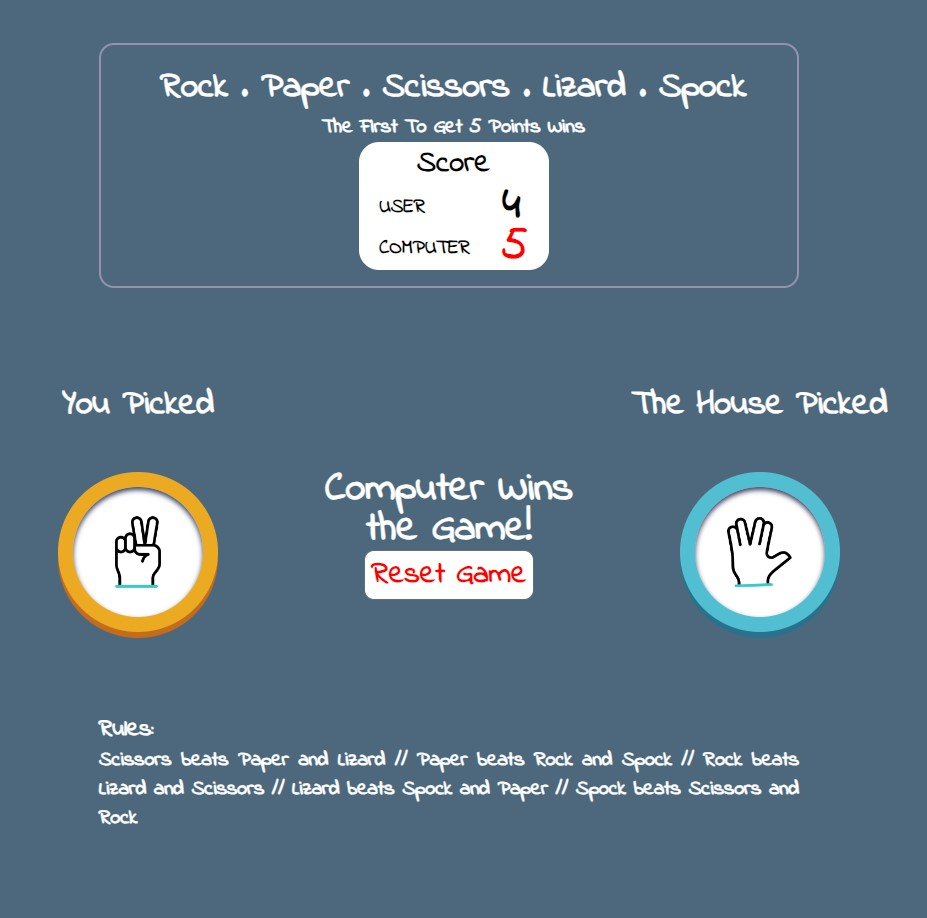
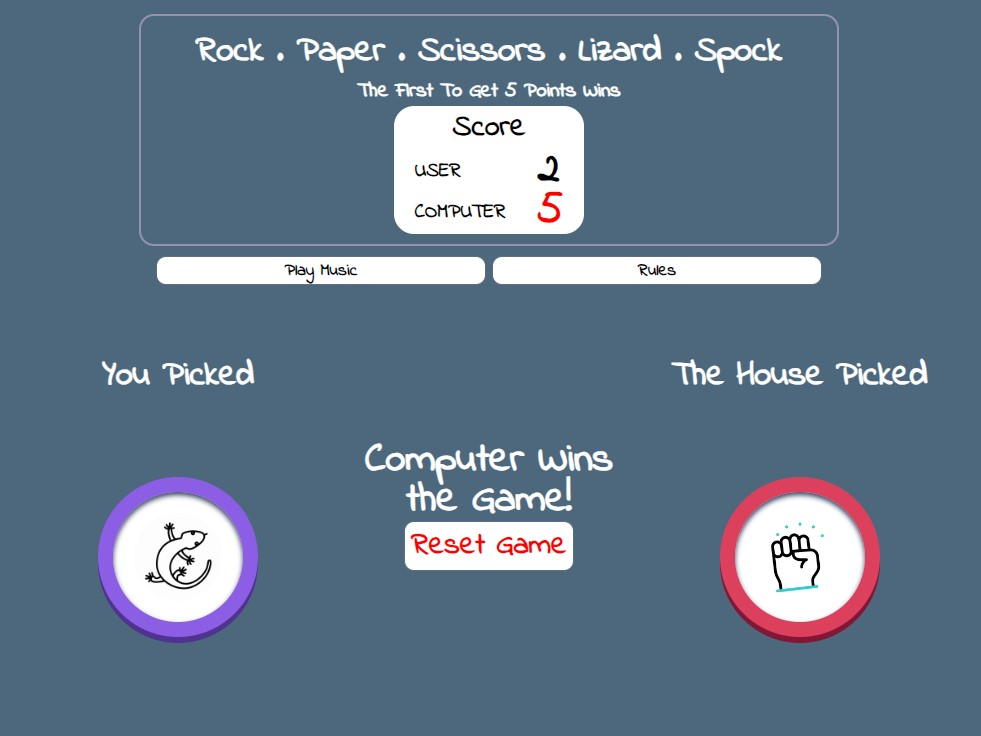
Adjusted ReadMe adding new images of the game. Added footer again.

diff --git a/assets/css/styles.css b/assets/css/styles.css
@@ -104,16 +104,17 @@ td {
     left: 0;
     right: 0;
     bottom: 0;
-    background-color: rgba(0, 0, 0, 0.7); /* Semi-transparent background */
+    background-color: rgba(0, 0, 0, 0.7);
+    /* Semi-transparent background */
     z-index: 9999;
     justify-content: center;
     align-items: center;
 }
-  
+
 #rules-image {
     border-radius: 0;
     max-width: 100%;
-    
+
 }
 
 .modal-content {
@@ -129,7 +130,7 @@ td {
     left: 50%;
     transform: translate(-50%, -50%);
 }
-  
+
 .close-button {
     color: #df7b7b;
     float: right;
@@ -152,7 +153,8 @@ td {
     line-height: 1;
 }
 
-#button-music, #rules {
+#button-music,
+#rules {
     border: 1px solid hsl(217, 16%, 45%);
     width: 330px;
     border-radius: 10px;
@@ -165,9 +167,10 @@ td {
     font-weight: bold
 }
 
-#button-music:hover, #rules:hover{
+#button-music:hover,
+#rules:hover {
     background-position: left bottom;
-    color: #fff;   
+    color: #fff;
 }
 
 /* Choices for the user and the Image with the Rules */
@@ -314,6 +317,14 @@ td {
     color: #fff;
 }
 
+/*Footer*/
+
+footer {
+    font-size: 80%;
+    opacity: 40%;
+    margin-top: 40px;
+}
+
 /* Media queries */
 
 /* For medium screens sizes from 950px wide and down */
@@ -342,7 +353,8 @@ td {
         font-size: 20px;
     }
 
-    #button-music, #rules {
+    #button-music,
+    #rules {
         font-size: 15px;
     }
 
@@ -387,6 +399,10 @@ td {
         left: 170px;
     }
 
+    footer {
+        font-size: 60%;
+    }
+
 }
 
 /* For small screens sizes from 800px wide and down */
@@ -414,8 +430,9 @@ td {
         font-size: 15px;
     }
 
-    #button-music, #rules {        
-        width: 170px; 
+    #button-music,
+    #rules {
+        width: 170px;
         font-size: 13px;
     }
 

diff --git a/index.html b/index.html
@@ -7,7 +7,6 @@
         <link rel="icon" href="assets/images/index/jokenpo.png" />
         <title>RPSLS Game</title>
     </head>
-    
     <body class="flex-column">
         <!--Header-->
         <header class="title-block flex-row">
@@ -27,20 +26,19 @@
                 </table>
             </div>
         </header>
-        
         <div id="button-music-rules">
             <button type="button" id="button-music">Play Music</button>
             <button type="button" id="rules">Rules</button>
         </div>
-
         <div id="rules-modal" class="modal">
             <div class="modal-content">
                 <span class="close-button">&times;</span>
                 <img src="assets/images/index/rules.jpg" alt="Game Rules" id="rules-image">
                 <p id="modal-text">Scissors beats Paper and Lizard // Paper beats Rock and Spock // Rock beats Lizard and Scissors
-                    // Lizard beats Spock and Paper // Spock beats Scissors and Rock</p>
+                    // Lizard beats Spock and Paper // Spock beats Scissors and Rock
+                </p>
             </div>
-          </div>
+        </div>
         <!-- User Choice images-->
         <div class="user-choice">
             <div class="game-card scissors"><img src="assets/images/index/scissors.gif" alt="GIF of a hand making a Scissors gesture"></div>
@@ -66,7 +64,9 @@
                 </div>
             </div>
         </div>
-        
+        <footer>
+            <p>Game created in 2023 by Talita Caldato</p>
+        </footer>
         <!--JavaScript-->
         <script src="assets/js/script.js"></script>
     </body>

diff --git a/assets/js/script.js b/assets/js/script.js
@@ -34,9 +34,9 @@ const buttonMusic = document.getElementById("button-music");
 // EventListener added to Play Music Button to Stop and Play Main Music
 buttonMusic.addEventListener("click", () => {
     if (mySound.paused) {
-    mySound.volume = 0.3;
-    mySound.loop = true;
-    mySound.play();
+        mySound.volume = 0.3;
+        mySound.loop = true;
+        mySound.play();
     } else {
         mySound.pause();
     }
@@ -55,19 +55,19 @@ const buttonClickRules = document.getElementById("rules");
 //Open the Modal when user clicks the button
 buttonClickRules.onclick = function() {
     rulesModal.style.display = "block";
-}
+};
 
 //Close the Modal when user clicks the X on Modal
-closeButton.onclick = function(){
+closeButton.onclick = function() {
     rulesModal.style.display = "none";
-}
-  
+};
+
 // Close the modal if the user clicks outside of it
-window.onclick = function (event) {
+window.onclick = function(event) {
     if (event.target === rulesModal) {
-    rulesModal.style.display = "none";
+        rulesModal.style.display = "none";
     }
-}
+};
 
 // Add event listeners for each user choice and start the game when clicked
 document.querySelectorAll('.user-choice .game-card').forEach(card => {
@@ -174,7 +174,6 @@ function clearResultBeforeAppend() {
     userPickElement.innerHTML = '';
     pcPickElement.innerHTML = '';
 }
-
 
 // Function to update the score board and save the score in local storage
 function updateScoreBoard() {

diff --git a/README.md b/README.md
@@ -62,8 +62,8 @@ The Game needs to enable the **user** to:
 - The Main Page is separated into three parts:
 
     1. The Header, with the Title of the Game and the Game Score;
-    2. The Body, with five choices for the user;
-    3. The Footer, with the game rules.
+    2. The Main Content, with Play Music and Rules Button, and five choices for the user;
+    3. The Footer, with the name of the creator and the date the web page was created.
 
 - When a user selects an option on the main page to play against the computer, it opens, with JavaScript, a overlapping information where they can see if they have won or lost the game:
 
@@ -101,6 +101,18 @@ It is imperative that the website maintains a consistent and responsive navigati
 
 ![Header Image](assets/images/readme/header.jpg)
 
+- **Play Music and Rules Button**
+
+  - Below the header, the Play Music and Rules buttons are displayed.
+  - Users can control the main music by clicking the "Play Music" button. The game also includes sounds when users click on the cards and when they win or lose the game.
+  - Users can access the rules of the game with the Rules Button.
+
+![Music and Rules Image](assets/images/readme/music-rules-button.jpg)
+
+ - A modal will be displayed containing a picture and a paragraph where users can find a detailed explanation about the game rules.
+
+![Modal Image](assets/images/readme/modal.jpg)
+
 - **The Primary Content**
 
   - The primary content consists of five cards containing GIFs that display the user's available choices. The options include Rock, Paper, Scissors, Lizard, and Spock. When the user selects one of these options, new information is displayed using JavaScript. This information shows whether the user won or lost the game against the computer.
@@ -110,7 +122,7 @@ It is imperative that the website maintains a consistent and responsive navigati
 
 - **The Footer**
 
-  - In the footer section, the user can find a detailed explanation about the game rules.
+  - In the footer section, the users can find the name of the creator and the date the web page was created.
 
 ![Footer Image](assets/images/readme/footer.jpg)
 
@@ -162,7 +174,14 @@ Testing information can be found in a separate testing [File](TESTING.md "Link t
   - No errors were found when passing through the official [(Jigsaw) validator](https://jigsaw.w3.org/css-validator/validator?uri=https%3A%2F%2Ftcaldato.github.io%2Frock-paper-scissors-lizard-spock-game%2F&profile=css3svg&usermedium=all&warning=1&vextwarning=&lang=en)
 
 - JavaScript
-  - No errors were found when passing through the official [JSHint validator](https://jshint.com/). The test is on the [File](TESTING.md "Link to testing file")
+  - No errors were found when passing through the official JSHint validator:
+
+    <details>
+    <summary>JSHint validator results</summary>
+
+    ![Validation results](assets/images/testing/jsvalidator.gif)
+
+    </details>
 
 - **Unfixed Bugs**
 
@@ -184,7 +203,35 @@ Testing information can be found in a separate testing [File](TESTING.md "Link t
  6. Upon selection, the page will automatically refresh meaning that the website is now deployed.
  7. Scroll back down to the "Pages" section to retrieve the deployed link.
 
-The live link can be found here - https://tcaldato.github.io/rock-paper-scissors-lizard-spock-game/
+### GitHub Forking and Cloning
+
+To fork and clone the project, you can get more information on  you will need to follow these steps:
+
+1. Forking a GitHub repository.
+
+    You might fork a project to propose changes to the upstream, or original, repository. In this case, it's good practice to regularly sync your fork with the upstream repository. To do this, you'll need to use Git on the command line.
+    - Navigate to the repository you wish to fork.
+    - In the top-right corner of the page, click Fork.
+    - Under "Owner," select the dropdown menu and click an owner for the forked repository.
+    - By default, forks are named the same as their upstream repositories. Optionally, to further distinguish your fork, in the "Repository name" field, type a name.
+    - Optionally, in the "Description" field, type a description of your fork.
+    - Click Create fork.
+
+2. Cloning your forked repository.
+
+    - Navigate to your forked repository.
+    - Above the list of files, click 'Code'.
+    - To clone the repository using HTTPS:
+        - Under "Clone with HTTPS", click the copy icon (a clipboard).
+    - To clone the repository using an SSH key, including a certificate issued by your organization's SSH certificate authority:
+        - Click 'Use SSH', then click the copy icon.
+    - To clone a repository using GitHub CLI:
+        - Click 'Use GitHub CLI', then click the copy icon.
+    - Open Git Bash.
+    - Change the current working directory to the location where you want the cloned directory.
+    - Type git clone, and then paste the URL you copied earlier. It will look like this:
+        git clone https://hostname/YOUR-USERNAME/repo-name
+    - Press Enter. Your local clone will be created.
 
 [Back to top](#rock-paper-scissors-lizard-spock-game)
 
@@ -199,6 +246,7 @@ The live link can be found here - https://tcaldato.github.io/rock-paper-scissors
 
 - The Background Image was created by me using Paint app.
 - Some GIFs are from [Font Awesome](https://fontawesome.com/).
+- The Rules image was taken from [Twitter](https://twitter.com/Lagana/status/175639722759163904).
 
 ### Code
 
